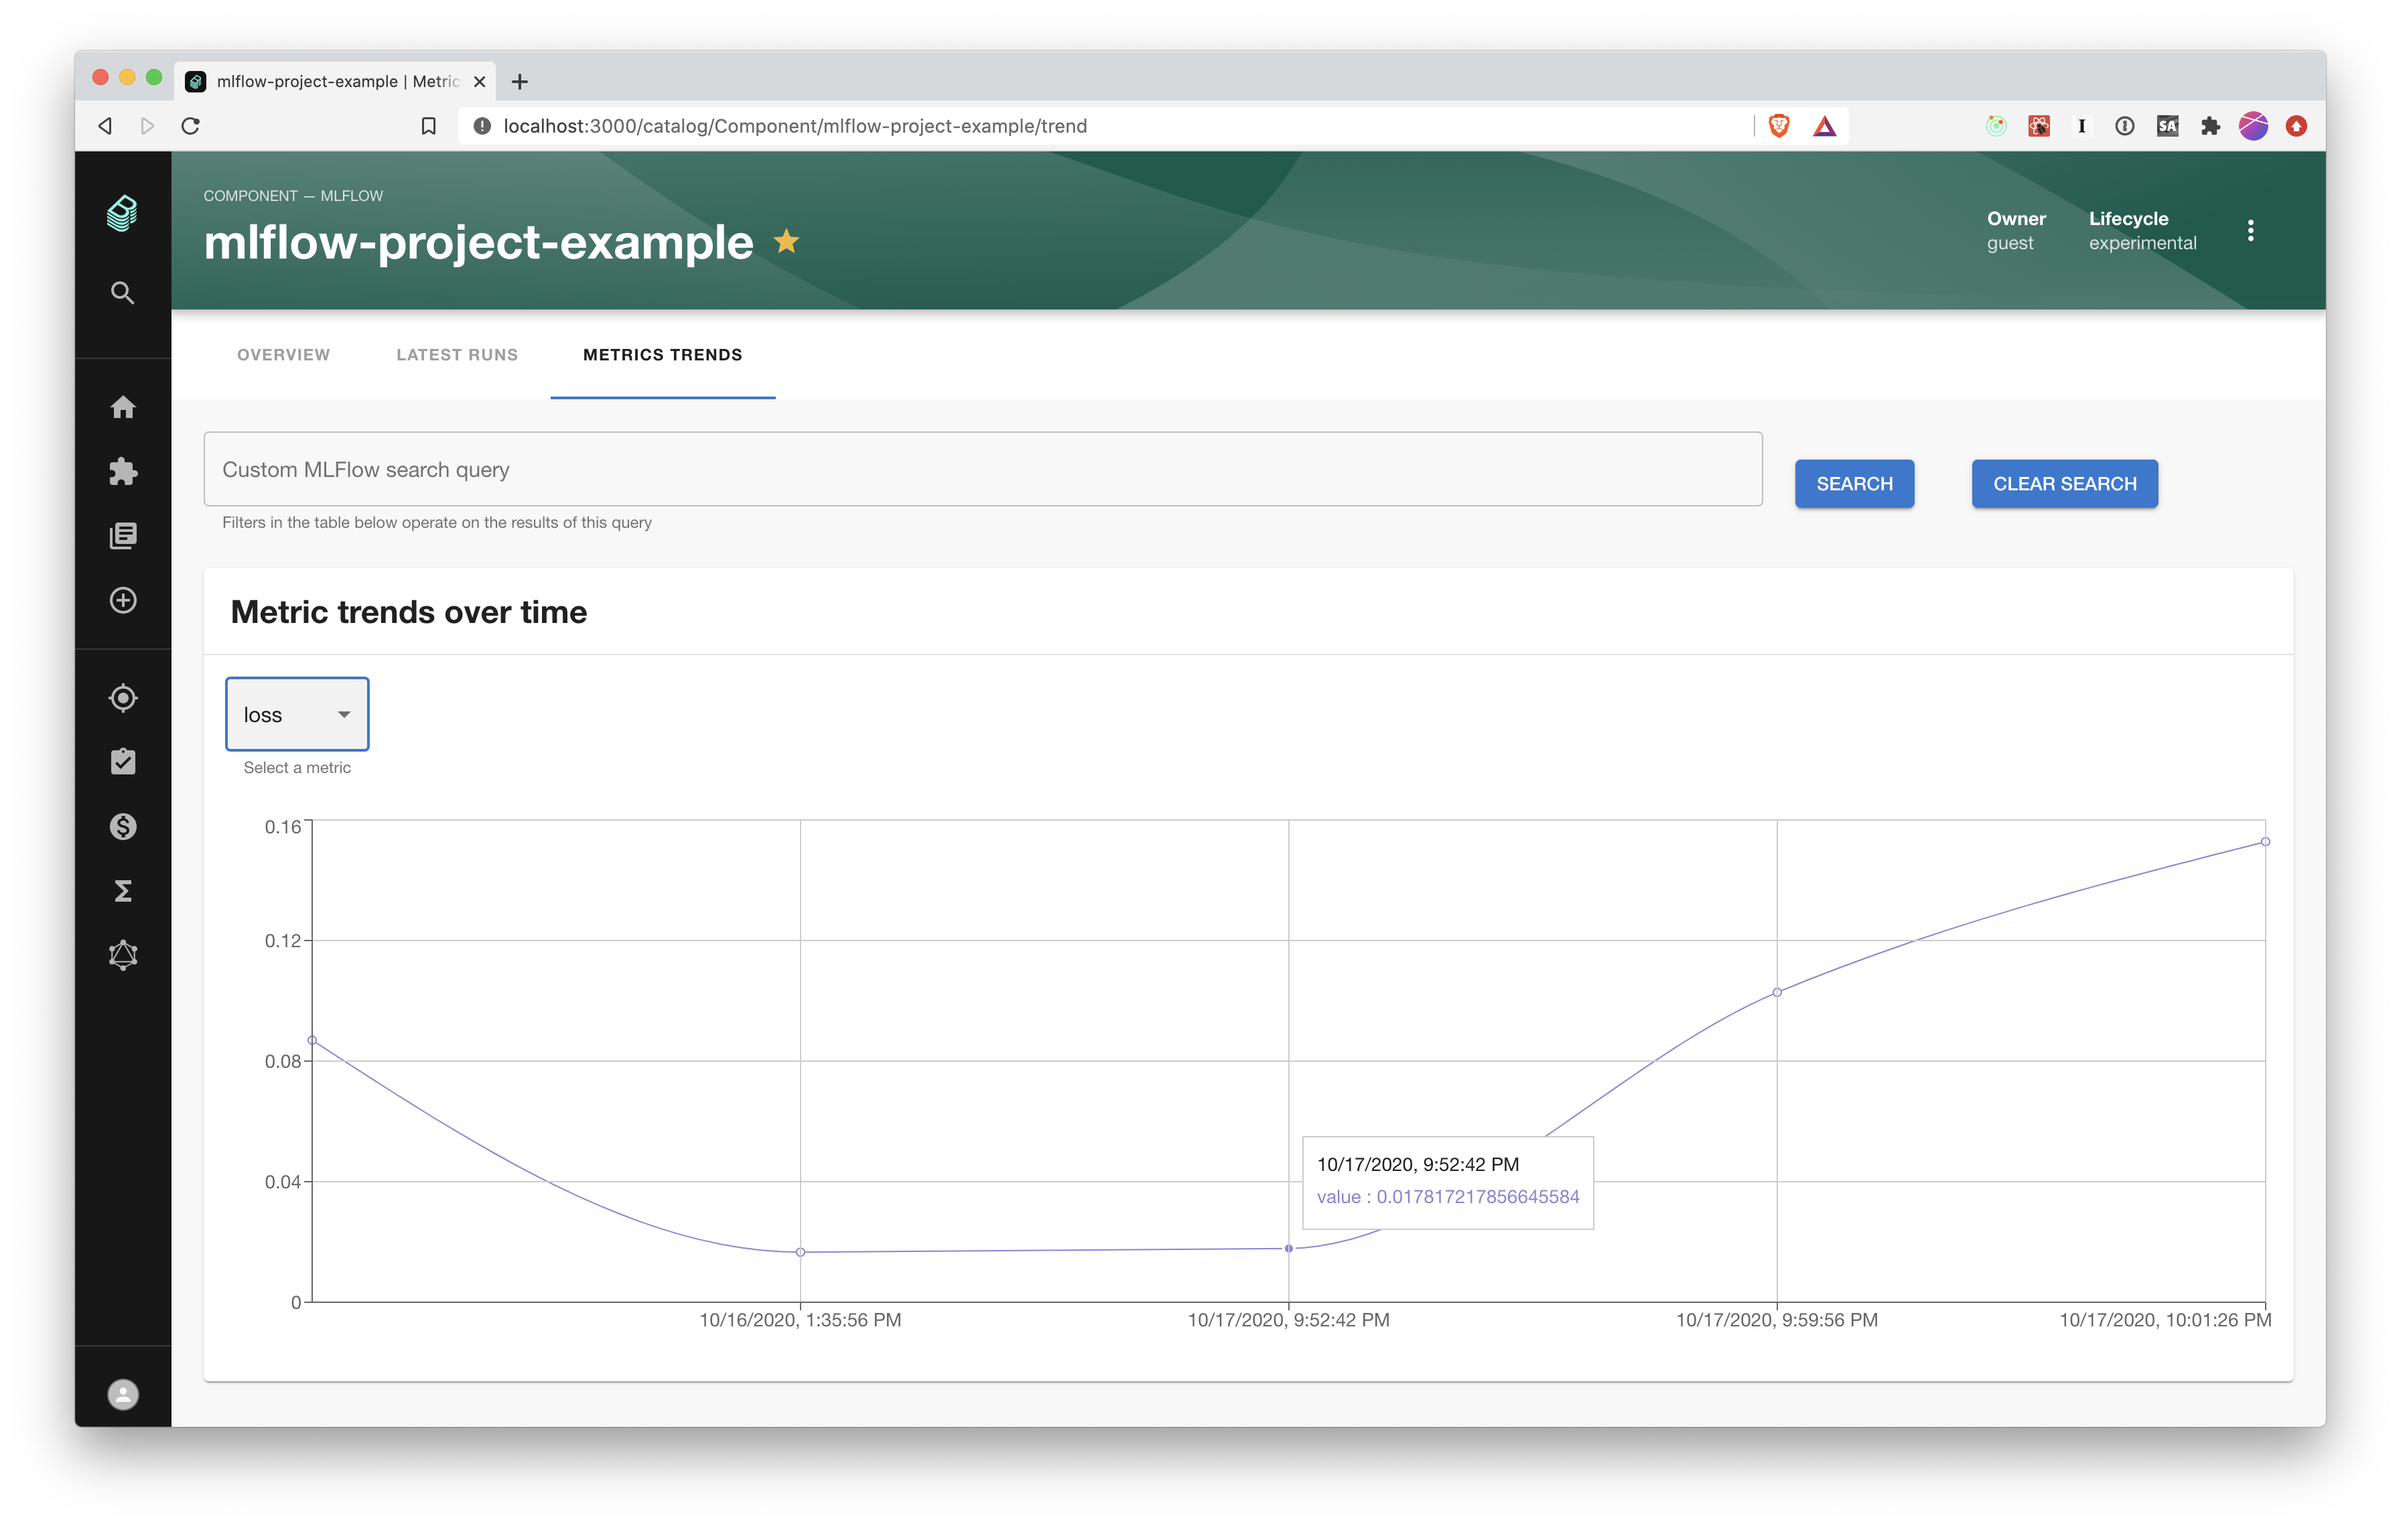
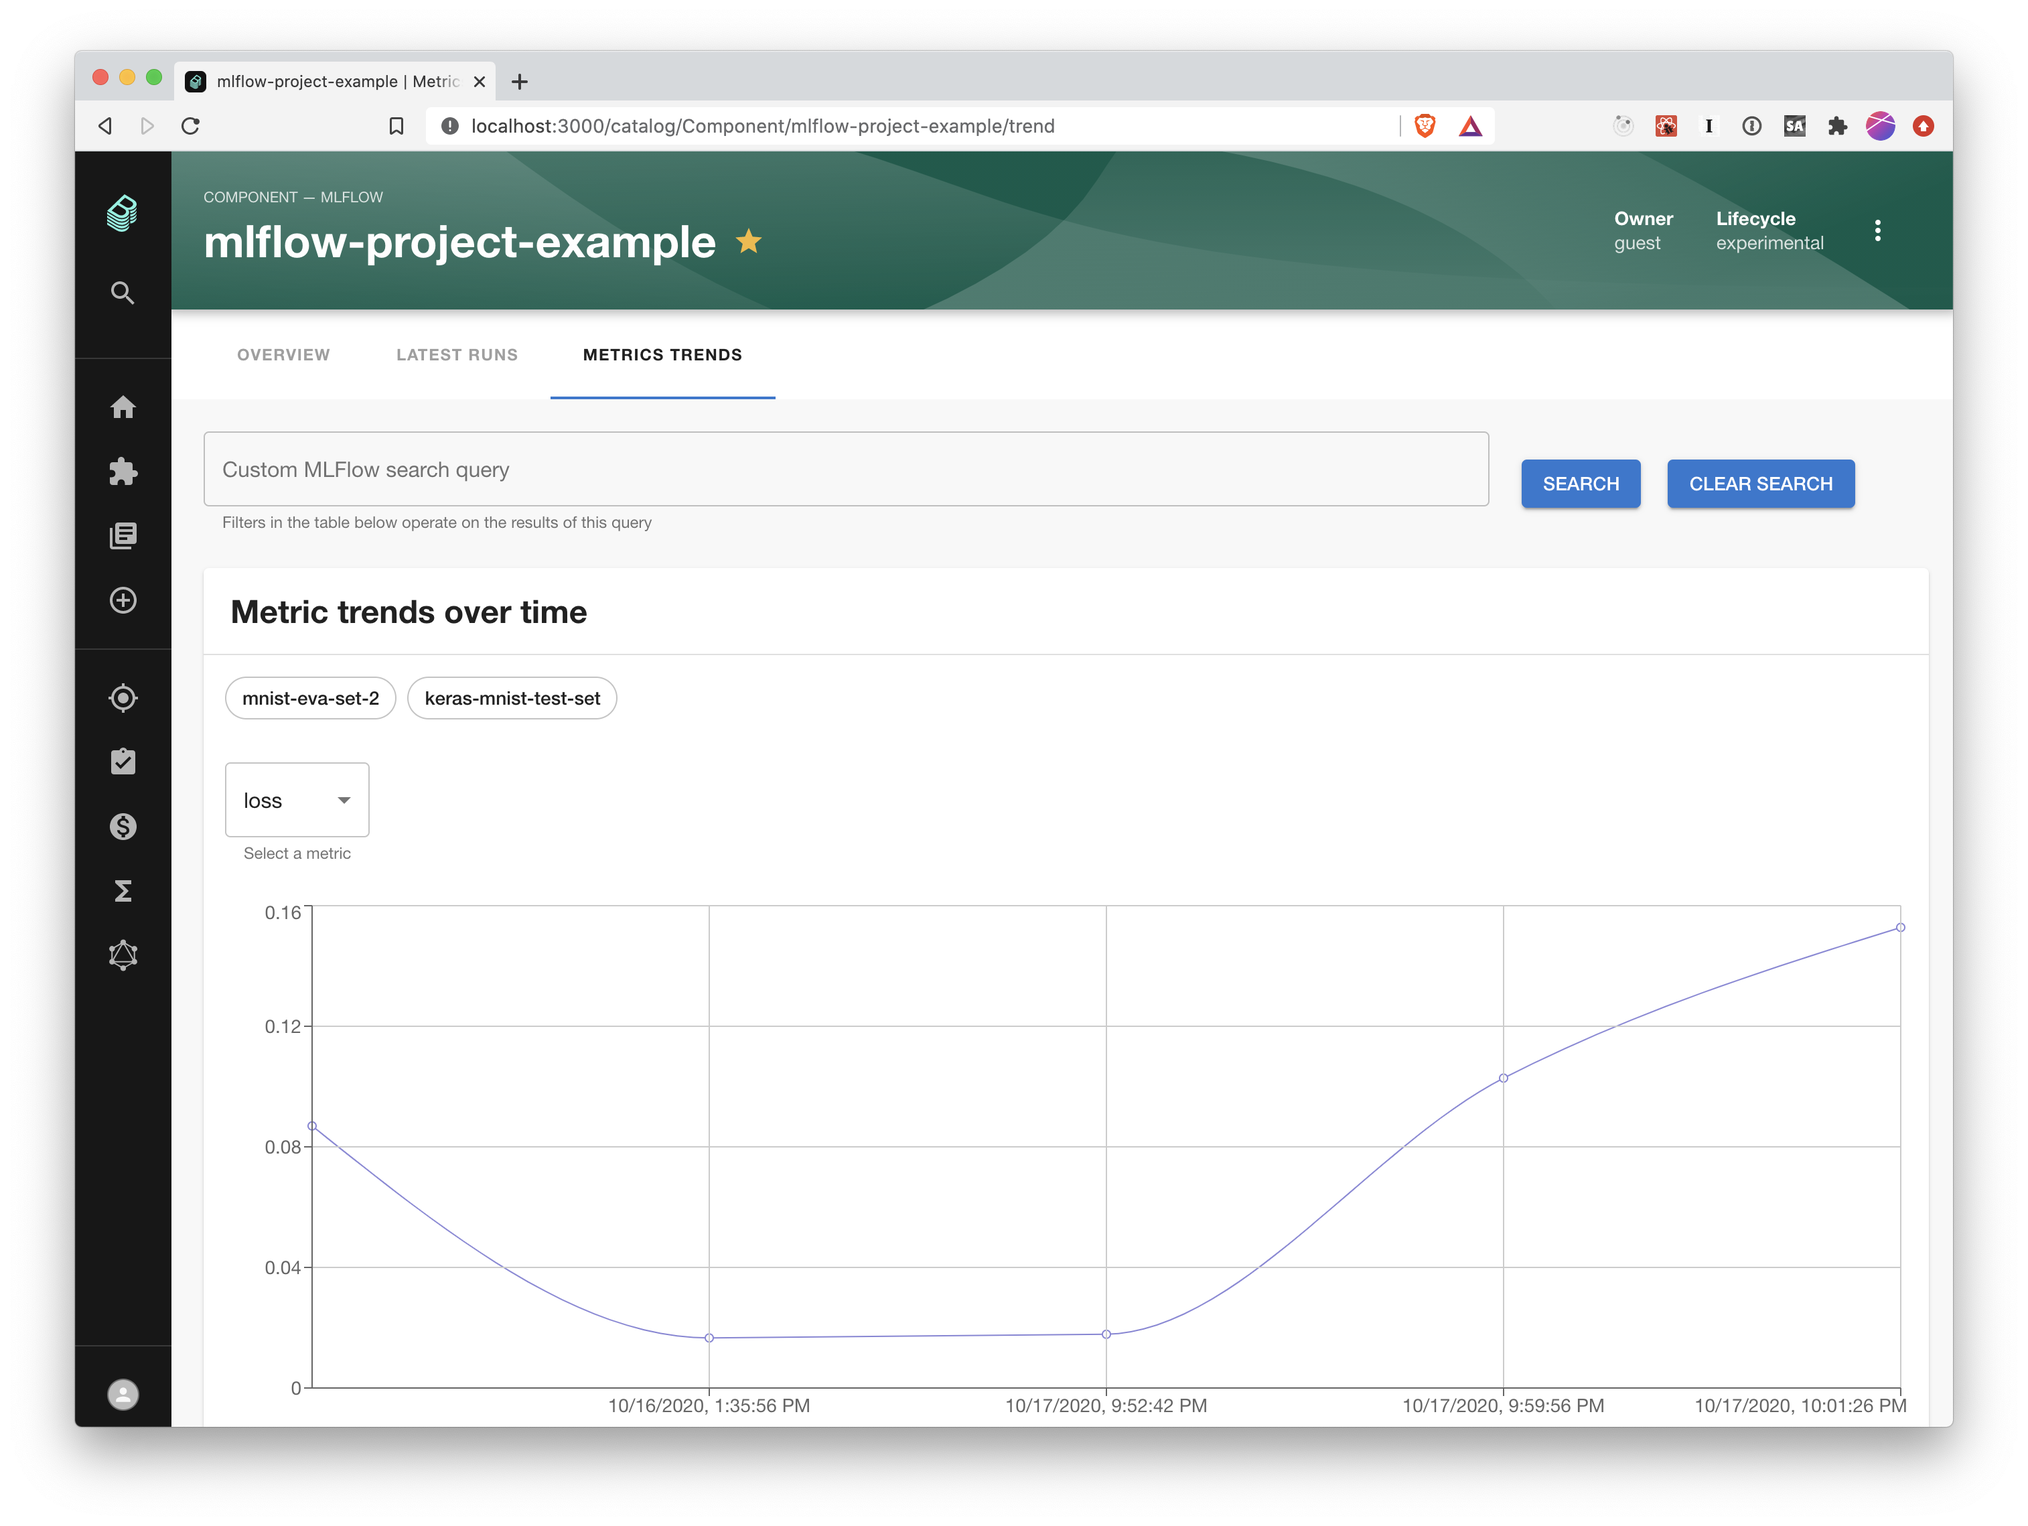
update docs (#19)

diff --git a/plugins/mlflow/README.md b/plugins/mlflow/README.md
@@ -53,7 +53,7 @@ You can also use the search query box to put any [mlflow search query](https://w
 
 ![Filtered using search](screenshots/search-filter.png)
 
-In addition, you can view metric trends over time for all runs in this particular Experiment.
+In addition, you can view metric trends over time for all runs in this particular Experiment. If you tag Evaluation Sets in your runs, they will show up as filters on the metrics graph so you can be sure to compare models evaluated on the same hold-out set.
 
 ![Metrics trend](screenshots/metrics-trend.png)
 
